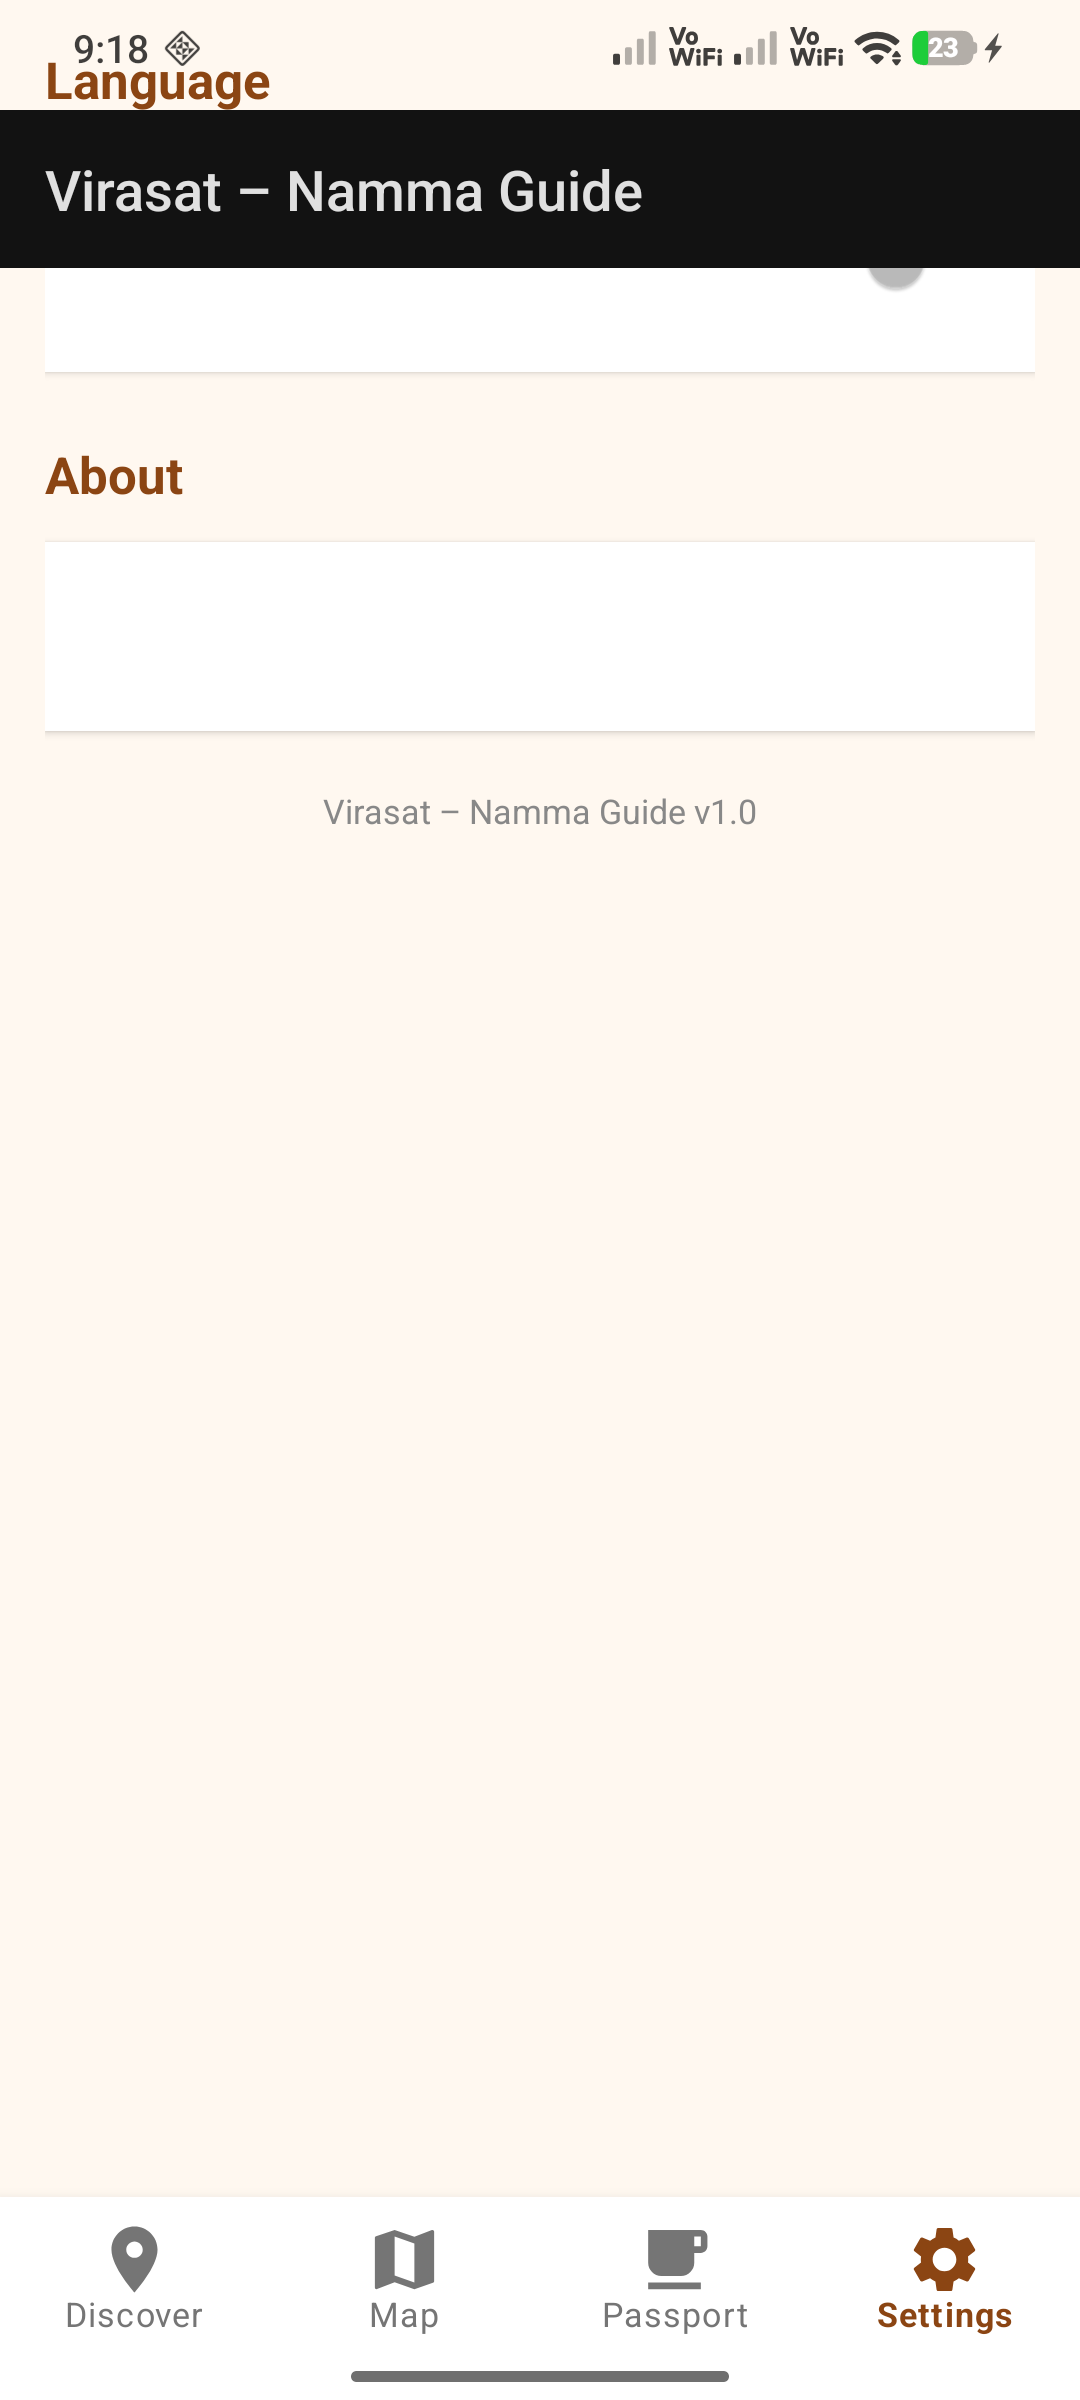
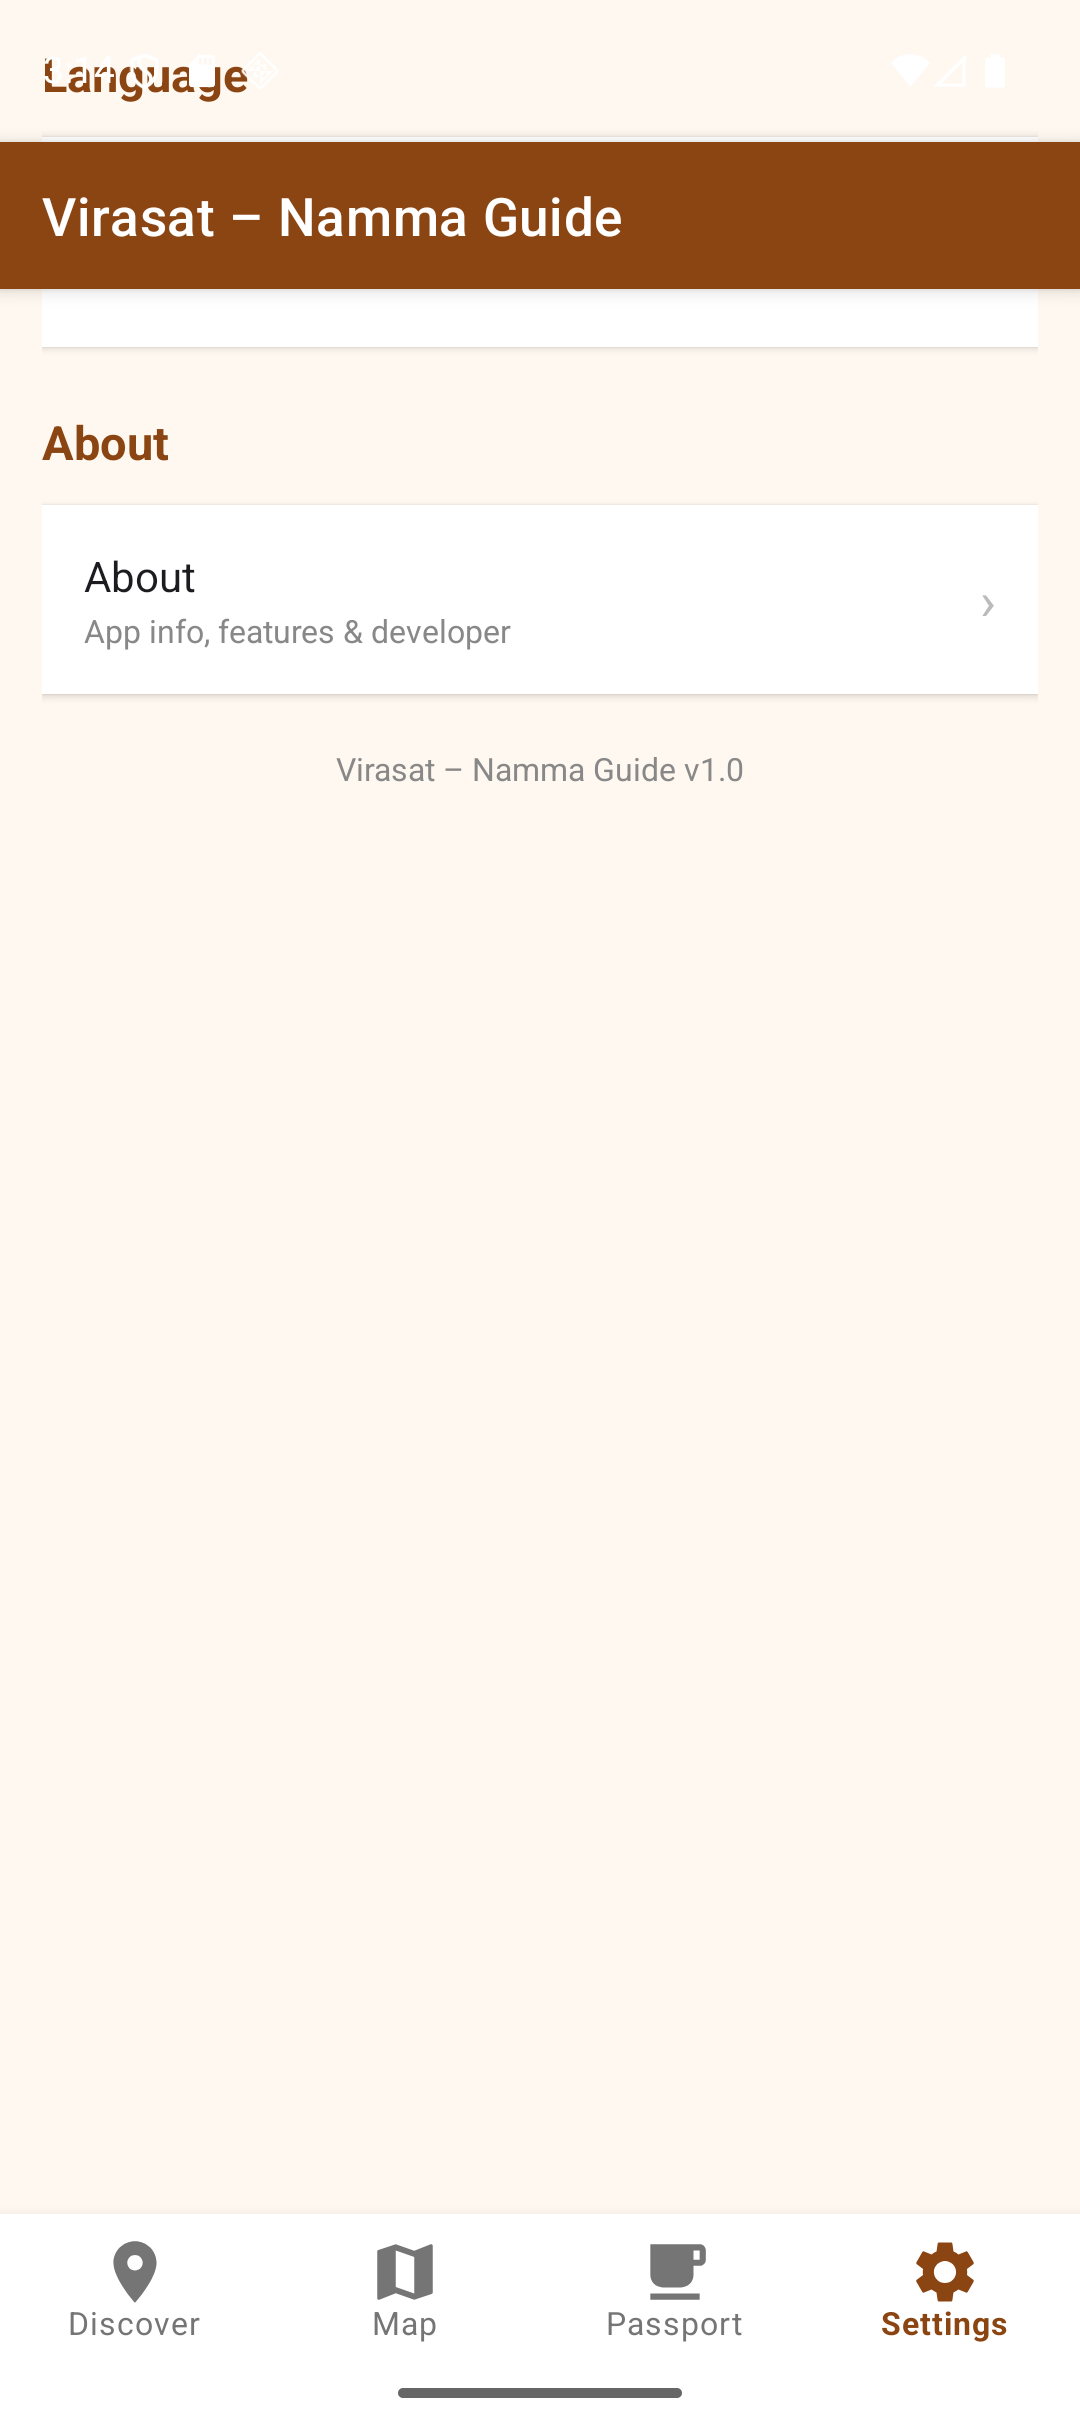
Add About page with screenshot
- New AboutFragment with header banner, features, tech stack, and developer cards
- Settings now has a tappable About row that navigates to the full About page
- Added screenshots/about.png and updated README

diff --git a/app/src/main/java/com/virasat/nammaguide/ui/about/AboutFragment.kt b/app/src/main/java/com/virasat/nammaguide/ui/about/AboutFragment.kt
@@ -1,0 +1,29 @@
+package com.virasat.nammaguide.ui.about
+
+import android.os.Bundle
+import android.view.LayoutInflater
+import android.view.View
+import android.view.ViewGroup
+import androidx.fragment.app.Fragment
+import com.virasat.nammaguide.BuildConfig
+import com.virasat.nammaguide.databinding.FragmentAboutBinding
+
+class AboutFragment : Fragment() {
+    private var _binding: FragmentAboutBinding? = null
+    private val binding get() = _binding!!
+
+    override fun onCreateView(inflater: LayoutInflater, container: ViewGroup?, savedInstanceState: Bundle?): View {
+        _binding = FragmentAboutBinding.inflate(inflater, container, false)
+        return binding.root
+    }
+
+    override fun onViewCreated(view: View, savedInstanceState: Bundle?) {
+        super.onViewCreated(view, savedInstanceState)
+        binding.tvAboutVersion.text = "v${BuildConfig.VERSION_NAME}"
+    }
+
+    override fun onDestroyView() {
+        super.onDestroyView()
+        _binding = null
+    }
+}

diff --git a/app/src/main/java/com/virasat/nammaguide/ui/settings/SettingsFragment.kt b/app/src/main/java/com/virasat/nammaguide/ui/settings/SettingsFragment.kt
@@ -6,6 +6,9 @@ import android.view.LayoutInflater
 import android.view.View
 import android.view.ViewGroup
 import androidx.fragment.app.Fragment
+import androidx.navigation.fragment.findNavController
+import com.virasat.nammaguide.BuildConfig
+import com.virasat.nammaguide.R
 import com.virasat.nammaguide.databinding.FragmentSettingsBinding
 import java.util.Locale
 
@@ -33,8 +36,11 @@ class SettingsFragment : Fragment() {
             setLocale(lang)
         }
 
-        binding.tvVersion.text = "Virasat – Namma Guide v1.0"
-        binding.tvAbout.text = "A GPS-based heritage guide for Karnataka's hidden treasures."
+        binding.tvVersion.text = "Virasat – Namma Guide v${BuildConfig.VERSION_NAME}"
+
+        binding.rowAbout.setOnClickListener {
+            findNavController().navigate(R.id.action_settings_to_about)
+        }
     }
 
     private fun setLocale(lang: String) {

diff --git a/README.md b/README.md
@@ -34,13 +34,17 @@ Karnataka is home to some of India's most extraordinary heritage — from the Vi
 
 ## Screenshots
 
-| Home — Site List | Map View | Site Detail |
+| Home — Site List | Site Detail | GPS Check-in |
 |:---:|:---:|:---:|
-| ![Home](screenshots/home.png) | ![Map](screenshots/map.png) | ![Site Detail](screenshots/site_detail.png) |
+| ![Home](screenshots/home.png) | ![Site Detail](screenshots/site_detail.png) | ![GPS Check-in](screenshots/map.png) |
 
-| AI Chat | Digital Passport | Settings |
+| QR Scanner | Digital Passport | Settings |
 |:---:|:---:|:---:|
-| ![Chat](screenshots/site_detail_chat.png) | ![Passport](screenshots/passport.png) | ![Settings](screenshots/settings.png) |
+| ![QR Scanner](screenshots/scanner.png) | ![Passport](screenshots/passport.png) | ![Settings](screenshots/settings.png) |
+
+| About |
+|:---:|
+| ![About](screenshots/about.png) |
 
 ---
 
